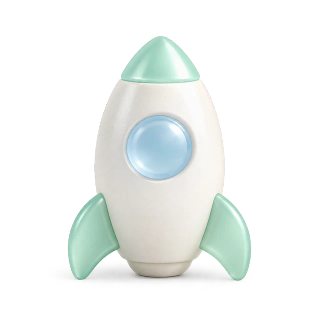
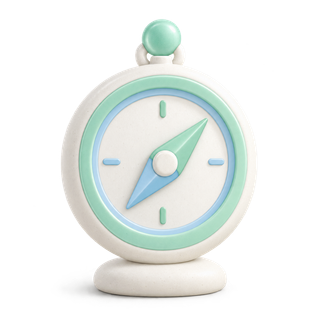
feat: refine integrity completion and result presentation

Changed region(s): [[0.1875, 0.0625, 0.7812, 0.9375]]

diff --git a/docs/adult-design-release-qa.html b/docs/adult-design-release-qa.html
@@ -5,6 +5,7 @@
 <p>2026-10-13 · 에이전트 검토에서 확인한 외부 환경 항목. 현재 작업은 로컬 구현이며 배포는 요청되지 않았습니다. 아래 항목은 로컬 검사만으로 완료 처리하지 않습니다.</p>
 <h2 id="worker-og">공유 미리보기의 Worker 이미지 접근</h2><table>
 <tr><th>상태</th><td><code>pending</code></td></tr>
+<tr><th>나침반 교체 · 마지막 확인 2026-10-15</th><td>실용주의 개척자의 결과 WebP와 공유 PNG를 같은 투명 나침반 원본으로 교체했습니다. 유형 ID·경로는 유지합니다. 운영 배포와 공유 서비스의 기존 캐시 갱신은 이번 작업에서 검증하지 않았습니다. 승인된 배포 후 기대 증거·종료 조건: 새 쿼리와 기존 공유 URL에서 나침반이 표시되는 200 PNG 응답 및 캡처를 확인합니다. 다른 7유형 이미지가 유지되는지도 확인하고, 해당 증거를 이 기존 항목에 연결합니다.</td></tr>
 <tr><th>등록 / 마지막 확인</th><td>2026-10-13 / 2026-10-14 — 운영 기본형의 기존 URL은 HTTP 200 PNG지만 로켓 이모지가 보였고, 새 쿼리 <code>review=20261014</code>로 요청한 같은 유형은 HTTP 200 PNG 및 로켓 일러스트가 정상 표시됨. 정적 PNG도 HTTP 200, 58,039바이트로 확인. 캐시 영향으로 추정하며 운영 렌더 실패로 단정하지 않음. 증거: <code>artifacts/review-321631f/production-og.png</code>, <code>production-og-fresh.png</code>. 로컬 변경은 ASSETS 직접 접근, 바인딩 오류 시 재호출 금지, 그림 실패 응답 캐시 60초로 보완. 전체 8유형·Plus·학생 배포 후보 검증은 미완료.</td></tr>
 <tr><th>영향 범위</th><td><code>src/app/api/og/route.tsx</code>, 성인 8유형 공유 미리보기, <code>/images/adult-integrity/*.png</code></td></tr>
 <tr><th>출시 전 검사</th><td>별도로 승인된 배포 후보 Worker에서 ASSETS 접근·PNG 디코딩과 새 쿼리/기존 URL의 캐시 갱신을 실제 응답으로 확인합니다. 일시적인 그림 실패는 60초 캐시, 정상 그림은 기존 24시간 캐시임을 확인합니다.</td></tr>
@@ -49,10 +50,11 @@
 <tr><th>종료 조건</th><td>승인된 OC와 실제 Worker 조회 확인, 날짜·근거·오류 처리 시나리오 통과 후 증거 연결 및 <code>verified</code>. 신청 안내의 자동 승인 표시와 일반 절차 안내의 심의 표시가 달라 소요 시간을 단정하지 않고 실제 승인 상태로 확인합니다.</td></tr></table>
 <h2 id="product-data-policy">기본형·Plus의 공통 통계 정책</h2><table>
 <tr><th>상태</th><td><code>pending</code> — 현재 공통 설정 확인, 운영 의도 미확인</td></tr>
-<tr><th>등록 / 마지막 확인</th><td>2026-10-14 / 2026-10-14 — 에이전트가 <code>wrangler.toml</code>, 성인 결과 저장과 관리자 집계를 소스 점검.</td></tr>
+<tr><th>등록 / 마지막 확인</th><td>2026-10-14 / 2026-10-15 — <code>wrangler.toml</code>, 성인 결과 저장과 관리자 집계를 소스 점검. 완료 화면의 로컬 검증에서 서버 저장의 환경 제약을 추가 확인.</td></tr>
 <tr><th>영향 범위</th><td>기본형·Plus 성인 청렴 결과의 저장 및 관리자 통계. 같은 D1 바인딩이며 저장 행에 제품 식별값·집계 제품 필터가 없습니다. 학생 서버 결과 저장은 차단되어 있습니다.</td></tr>
 <tr><th>출시 전 검사</th><td>제품별 통계를 안내하거나 별도 데이터 저장소라고 설명하기 전에 운영자가 공통 집계 유지 또는 제품별 구분 의도를 확인합니다. 실제 배포 바인딩은 이번 점검에서 조회하지 않았습니다.</td></tr>
 <tr><th>기대 증거</th><td>승인된 통계 정책 및 배포 후보의 D1 바인딩 확인. 개별 사용자 데이터나 비밀값은 기록하지 않습니다.</td></tr>
+<tr><th>저장 경로 검증 · 2026-10-15</th><td><code>pending</code> — 일반 <code>next dev</code>의 3137 포트에서는 <code>getCloudflareContext()</code> 개발 환경이 초기화되지 않아 <code>POST /api/results</code>가 500을 반환했습니다. 완료 체크·이름 입력·결과 이동은 확인했지만 이 검증은 운영 D1 저장 성공을 입증하지 않습니다. 결과 저장 API와 바인딩은 이번 UI 수정에서 변경하지 않았습니다. 기대 증거와 종료 조건: 승인된 Cloudflare 환경의 완료 답안 저장 응답 200 및 해당 검증 건의 저장 1회 확인. 운영 실패가 확인되면 별도 TODO/이슈로 승격합니다. 로그는 <code>artifacts/dev-server/3137/preview-20261015.stderr.log</code>에 있으며 개인정보·인증값은 문서에 옮기지 않습니다.</td></tr>
 <tr><th>종료 조건</th><td>공통 통계가 의도라면 그 범위를 문서화하고 <code>verified</code>로 변경. 제품별 구분이 필요하면 데이터 변경 작업을 TODO/이슈로 승격하고 <code>promoted</code>로 변경합니다.</td></tr></table>
 <h2 id="chat-mobile-keyboard">상시 입력 채팅의 실제 휴대폰 키보드</h2><table>
 <tr><th>상태</th><td><code>pending</code> — 브라우저 화면·동작 확인 완료, 실제 휴대폰 키보드 확인 필요</td></tr>

diff --git a/docs/adult-c-illustration-plan.html b/docs/adult-c-illustration-plan.html
@@ -12,7 +12,7 @@
 <tr><td>메인</td><td>1</td><td>투명 WebP · 기본·Plus 메인. 작은 물고기 1개와 해초 포인트.</td></tr>
 <tr><td>중립 안내</td><td>1</td><td>투명 WebP · 분석·결과 로딩. 특정 결과를 암시하지 않는 그림. 사용자 요청에 따라 채팅 시작·로딩에는 그림을 사용하지 않음.</td></tr>
 <tr><td>성인 결과</td><td>8</td><td>투명 WebP 8개 + 동일 원본 공유용 PNG 8개. 안정적인 유형 ID(stable ID)로 연결.</td></tr></table>
-<p>총 원본 10종, 배포 파일 18개입니다. 상징은 방패·저울·산·악수·로켓·말풍선·과녁·비둘기를 유지합니다. C 비교판을 그대로 잘라 사용하지 않고 각 그림을 따로 생성합니다. 둥근 짙은 세이지 선과 옅은 색면을 통일하고 작은 결과 카드에서 주변 장식선·점·식물은 줄입니다. 96px에서 상징 식별과 투명 배경을 확인합니다. 질문·채점·강점·주의·팁 원문은 유지합니다.</p>
+<p>총 원본 10종, 배포 파일 18개입니다. 상징은 방패·저울·산·악수·나침반·말풍선·과녁·비둘기를 유지합니다. 2026-10-15 사용자 결정으로 실용주의 개척자의 로켓만 나침반으로 교체하며, 현재 반영 그림은 기존 도자기 질감의 3D 계열에 맞춥니다. 나머지 7종은 유지합니다. 향후 C 그림을 제작할 때도 변경된 상징을 따릅니다. C 비교판을 그대로 잘라 사용하지 않고 각 그림을 따로 생성합니다. 둥근 짙은 세이지 선과 옅은 색면을 통일하고 작은 결과 카드에서 주변 장식선·점·식물은 줄입니다. 96px에서 상징 식별과 투명 배경을 확인합니다. 질문·채점·강점·주의·팁 원문은 유지합니다.</p>
 <p>기존 작은 SVG 아이콘과 방패·파도 로고는 유지합니다. 학생 그림과 일터 존중 진단 결과에는 성인 8유형 그림을 적용하지 않습니다. Plus 메인의 공통 그림은 기본형과 함께 교체됩니다.</p>
 <h2>작업 순서와 분리 점검</h2><table><tr><th>단계</th><th>담당 범위</th><th>완료 증거</th></tr>
 <tr><td>1 · 구조 확인<br>완료</td><td>제품·배포 에이전트 / 그림 연결 에이전트가 서로 다른 파일 범위를 읽기 전용으로 점검</td><td>3제품 구분, 10종·18파일 목록, 학생 API 경계. <code>corepack pnpm exec vitest run src/__tests__/product-definitions.test.ts src/__tests__/student-route-boundaries.test.ts src/__tests__/adult-artwork.test.ts</code> — 12개 통과.</td></tr>

diff --git a/src/products/adult/styles.css b/src/products/adult/styles.css
@@ -93,9 +93,17 @@
 .adult-result-tabs button[aria-selected="true"] { border-color: var(--color-primary); color: var(--color-primary); }
 .adult-result-description { min-height: var(--result-panel-height); margin-top: 8px; padding: var(--result-panel-padding) 14px; border-radius: 16px; background: var(--color-card); font-size: 14px; line-height: 1.65; color: var(--color-text-secondary); word-break: keep-all; overflow-wrap: anywhere; }
 .adult-result-actions { display: flex; gap: 10px; margin-top: 2px; }
-.adult-result-actions button { display: flex; flex: 1; min-height: 48px; align-items: center; justify-content: center; gap: 7px; border-radius: 16px; background: var(--color-primary-soft); color: var(--color-text); font-size: 14px; font-weight: 600; }
-.adult-result-actions button:last-child:not(:first-child) { background: var(--color-primary); color: white; }
+.adult-result-actions button { display: flex; flex: 1; min-height: 48px; align-items: center; justify-content: center; gap: 7px; border: 1px solid var(--color-border); border-radius: 16px; background: var(--color-primary-soft); color: var(--color-primary); font-size: 14px; font-weight: 600; }
+.adult-result-actions button:hover { background: var(--color-primary-muted); color: var(--color-primary-hover); }
 .adult-neutral-art { width: 168px; height: 114px; margin: 0 auto 16px; }
+.adult-completion-check { stroke-dasharray: 1; stroke-dashoffset: 0; animation: adult-completion-draw 1s cubic-bezier(.16, 1, .3, 1) both; }
+@keyframes adult-completion-draw {
+  from { stroke-dashoffset: 1; }
+  to { stroke-dashoffset: 0; }
+}
+@media (prefers-reduced-motion: reduce) {
+  .adult-completion-check { animation: none; }
+}
 .adult-question-page { background: var(--color-bg); }
 .adult-question-seaweed { display: block; width: 48px; height: 48px; object-fit: contain; pointer-events: none; }
 /* One- and two-line choices share a base height; longer text stays fully visible. */

diff --git a/src/products/adult/components/AdultIcon.tsx b/src/products/adult/components/AdultIcon.tsx
@@ -1,6 +1,6 @@
 import type { ReactNode } from 'react';
 
-export type AdultIconName = 'document' | 'clock' | 'heart' | 'spark' | 'research' | 'handshake' | 'chat' | 'shield' | 'scales' | 'mountain' | 'rocket' | 'target' | 'dove' | 'arrow' | 'back' | 'share' | 'close' | 'person-check' | 'people-heart';
+export type AdultIconName = 'document' | 'clock' | 'heart' | 'spark' | 'research' | 'handshake' | 'chat' | 'shield' | 'scales' | 'mountain' | 'rocket' | 'compass' | 'target' | 'dove' | 'arrow' | 'back' | 'share' | 'close' | 'person-check' | 'people-heart';
 
 const paths: Record<AdultIconName, ReactNode> = {
   document: <><path d="M14 3H6v18h12V7z" /><path d="M14 3v5h4M9 12h6M9 16h6" /></>,
@@ -14,6 +14,7 @@ const paths: Record<AdultIconName, ReactNode> = {
   scales: <><path d="M12 3v18M7 21h10M4 7h16M6 7l-4 8h8zm12 0-4 8h8z" /></>,
   mountain: <><path d="m2 20 7-15 5 10 3-7 5 12zM7 10l2 2 2-2" /></>,
   rocket: <><path d="M9 16C7 8 11 4 16 2c2 5 0 11-6 14zM9 9 4 12v6l5-2M14 14l-2 6H6" /><circle cx="13" cy="8" r="1.5" /></>,
+  compass: <><circle cx="12" cy="12" r="9" /><path d="m16 8-3 6-5 2 3-6z" /></>,
   target: <><circle cx="12" cy="12" r="9" /><circle cx="12" cy="12" r="5" /><circle cx="12" cy="12" r="1" /></>,
   dove: <><path d="M3 15c5 5 14 5 17-1 3-5-1-9-4-7l-3 3-7-4 3 7zM20 9l2 1-3 1M10 15l5-2" /></>,
   arrow: <path d="M4 12h16m-6-6 6 6-6 6" />,
@@ -33,7 +34,7 @@ const resultIcons: Record<string, AdultIconName> = {
   'principle-transparent-cooperative': 'scales',
   'principle-cautious-independent': 'mountain',
   'principle-cautious-cooperative': 'handshake',
-  'flexible-transparent-independent': 'rocket',
+  'flexible-transparent-independent': 'compass',
   'flexible-transparent-cooperative': 'chat',
   'flexible-cautious-independent': 'target',
   'flexible-cautious-cooperative': 'dove',

diff --git a/src/__tests__/adult-integrity-copy-compatibility.test.ts b/src/__tests__/adult-integrity-copy-compatibility.test.ts
@@ -32,13 +32,14 @@ describe('성인 청렴 문구 수정의 기존 답안 호환성', () => {
     ]))).toEqual(originalScores);
   });
 
-  it('8유형 ID·이름·축 조합·이모지가 유지된다', () => {
+  it('8유형 ID·이름·축 조합과 승인된 표시 상징이 유지된다', () => {
     expect(Object.entries(styleTypes).map(([key, s]) => [key, s.id, s.name, s.subtitle, s.emoji])).toEqual([
       ['principle-transparent-independent', 'principle-transparent-independent', '소신 수호자', '원칙-투명-독립', '🛡'],
       ['principle-transparent-cooperative', 'principle-transparent-cooperative', '정의의 조율자', '원칙-투명-협력', '⚖'],
       ['principle-cautious-independent', 'principle-cautious-independent', '묵묵한 파수꾼', '원칙-신중-독립', '🏔'],
       ['principle-cautious-cooperative', 'principle-cautious-cooperative', '신중한 중재자', '원칙-신중-협력', '🤝'],
-      ['flexible-transparent-independent', 'flexible-transparent-independent', '실용주의 개척자', '유연-투명-독립', '🚀'],
+      // 2026-10-15 사용자 요청으로 이 유형의 로켓만 나침반으로 교체했다.
+      ['flexible-transparent-independent', 'flexible-transparent-independent', '실용주의 개척자', '유연-투명-독립', '🧭'],
       ['flexible-transparent-cooperative', 'flexible-transparent-cooperative', '열린 소통가', '유연-투명-협력', '💬'],
       ['flexible-cautious-independent', 'flexible-cautious-independent', '전략적 해결사', '유연-신중-독립', '🎯'],
       ['flexible-cautious-cooperative', 'flexible-cautious-cooperative', '온건한 조정자', '유연-신중-협력', '🕊'],

diff --git a/src/products/adult/pages/test-page.tsx b/src/products/adult/pages/test-page.tsx
@@ -10,8 +10,6 @@ import { addHistoryEntry } from '@/lib/history';
 import { buildResultUrl } from '@/lib/utils';
 import { TEST_START_TIME_KEY, TEST_REFERRER_KEY } from '@/lib/constants';
 import { normalizeDisplayName, MAX_DISPLAY_NAME_LENGTH } from '@/lib/display-name';
-import { adultCommonArtwork } from '@/diagnostics/adult-integrity/artwork';
-import AdultArtwork from '../components/AdultArtwork';
 import QuestionSeaweed from '../components/QuestionSeaweed';
 import { AdultIcon, type AdultIconName } from '../components/AdultIcon';
 
@@ -179,7 +177,10 @@ export default function TestPage() {
 
     return (
       <div className="flex min-h-[60vh] flex-col items-center justify-center">
-        <AdultArtwork src={adultCommonArtwork.pause} className="adult-neutral-art" eager />
+        <svg className="mb-4 shrink-0" width="56" height="56" viewBox="0 0 56 56" fill="none" aria-hidden="true" focusable="false">
+          <circle cx="28" cy="28" r="28" fill="var(--color-primary-soft)" />
+          <path className="adult-completion-check" d="m17 28 7 7 15-15" pathLength="1" stroke="var(--color-primary)" strokeWidth="3" strokeLinecap="round" strokeLinejoin="round" />
+        </svg>
         <h1 className="text-base font-semibold text-[var(--color-text)]">결과가 준비됐어요</h1>
         <div className="mt-7 w-full max-w-xs rounded-[var(--radius-lg)] border border-[var(--color-border)] bg-[var(--color-card)] px-4 py-4 shadow-sm">
           <label className="block text-left text-[12px] font-bold text-[var(--color-text-muted)]" htmlFor="share-name">

diff --git a/src/data/questions.ts b/src/data/questions.ts
@@ -259,7 +259,7 @@ export const styleTypes: Record<string, StyleType> = {
     name: '실용주의 개척자',
     subtitle: '유연-투명-독립',
     description: '상황에 맞게 판단하고, 과정은 공개하며 주도적으로 실행하는 타입',
-    emoji: '🚀',
+    emoji: '🧭',
     strength: '상황에 맞는 대안을 찾고, 판단 과정과 근거를 공유하는 데 강점이 있어요.',
     caution: '상황에 따라 방법을 바꿀 때 판단 근거를 설명하지 않으면, 다른 사람이 기준을 이해하기 어려울 수 있어요.',
     tip: '"이건 왜 이렇게 판단했는지" 한 줄이라도 남겨두면, 유연함이 신뢰로 바뀌어요',

diff --git a/DESIGN.md b/DESIGN.md
@@ -11,6 +11,9 @@ On 2026-10-14 the user selected illustration style C: `design-concepts/2d-styles
 - On 2026-10-14 the user retained the integrity home as the main experience for Plus and approved two small secondary controls at the upper right: `내 행동` and `일터 존중`. Use quiet 24px authored line icons with readable labels, near-white `#fbfcfb` button backgrounds, a very faint border, and at least 52px touch height. Preserve the existing heading, artwork, facts, primary start action, and conditional history. Default has no respect links; student stays independent. Center the home content vertically and the desktop home frame in the viewport; short screens must retain scrolling, and narrow screens reserve room to avoid title overlap.
 - The user removed the `NIFS` accent and selected typography option 06 for `나의 청렴 스타일은?`: soft rounded pine lettering with a small smile in the green question mark. Use the transparent title artwork at up to 220px wide; retain a semantic heading and readable text fallback. Preserve the centered main content, existing illustration, and quiet right-side controls. The primary action reads `시작하기` without an arrow.
 - Once adult scoring has completed, show `결과가 준비됐어요` with the optional sharing name and an immediately usable `결과 보기` action. Do not display simulated analysis steps or a progress bar after the result URL is already ready. Preserve the seven-second fallback navigation when no name is entered; name focus or a nonempty name pauses it.
+- On 2026-10-15 the user replaced the name-entry wave-and-stones artwork with a small completion check that draws once over one second. Keep the name input and result action usable throughout; do not add a waiting timer. With reduced motion, show the completed check immediately. This completion-screen change does not replace result illustrations; the separate compass decision below applies to one result type.
+- On 2026-10-15 the user gave the result footer's `처음으로` and optional `AI 조언` equal visual weight. Use the same soft mint fill, pine text, faint border, width, height, and hover treatment for both; do not give AI advice a separate solid primary fill.
+- On 2026-10-15 the user replaced only the `실용주의 개척자` result's rocket illustration with a compass. Match the current soft ivory ceramic 3D family with mint and sky-blue accents and true transparency. Keep the other seven illustrations, style IDs, and scoring unchanged. The result WebP and sharing PNG must show the same compass; its browser-title emoji and history icon also use the compass symbol.
 - On 2026-10-14 the user removed the home sentence `결과에 맞춘 AI 조언도 받을 수 있어요.`. Show the previous-results action only when saved results exist; do not add a no-history message.
 - The user retained the original simple text-only previous-results action on 2026-10-14 after comparing alternatives. Keep its original spacing and shape; use the adult primary pine color for the text instead of gray. Hide it when there are no saved results. Default and Plus use the same treatment.
 - Following the user's 2026-10-14 refinement, adult integrity question headers show the number followed by the category on one line. Reserve a 48px square for the small 2D seaweed at the right of this header. Its position must not depend on question/answer length, viewport-height measurements, or the question transition animation. Keep text and illustration in separate slots. Never apply this decoration to the student or workplace-respect instruments.

diff --git a/docs/adult-integrity-minimal-copy-handoff.md b/docs/adult-integrity-minimal-copy-handoff.md
@@ -18,6 +18,8 @@
 
 ### 유지할 사항
 
+후속 예외: 2026-10-15 사용자가 실용주의 개척자의 로켓 그림을 나침반으로 바꾸도록 별도 요청했다. 해당 유형의 그림·공유 PNG·표시 이모지·목록 아이콘만 나침반으로 맞춘다. 아래 문구 수정의 점수·유형 ID·이름·판정 유지 조건과 나머지 7유형의 그림·상징은 그대로다.
+
 - 15문항, 문항당 선택지 4개, 기존 3축과 8유형 구조.
 - 문항 ID, 문항 순서, 선택지 순서.
 - 선택지 하나가 여러 축에 점수를 줄 수 있는 기존 구조.
